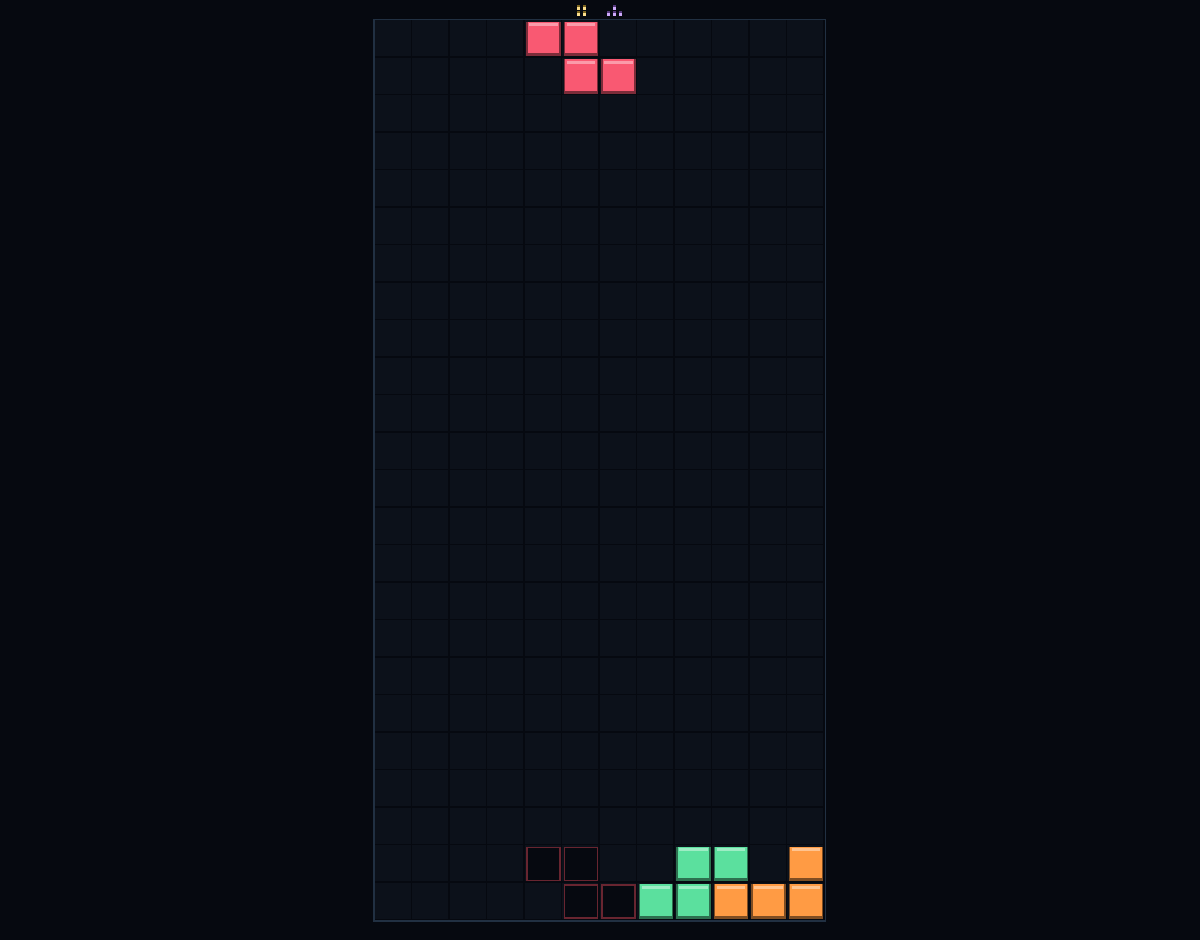
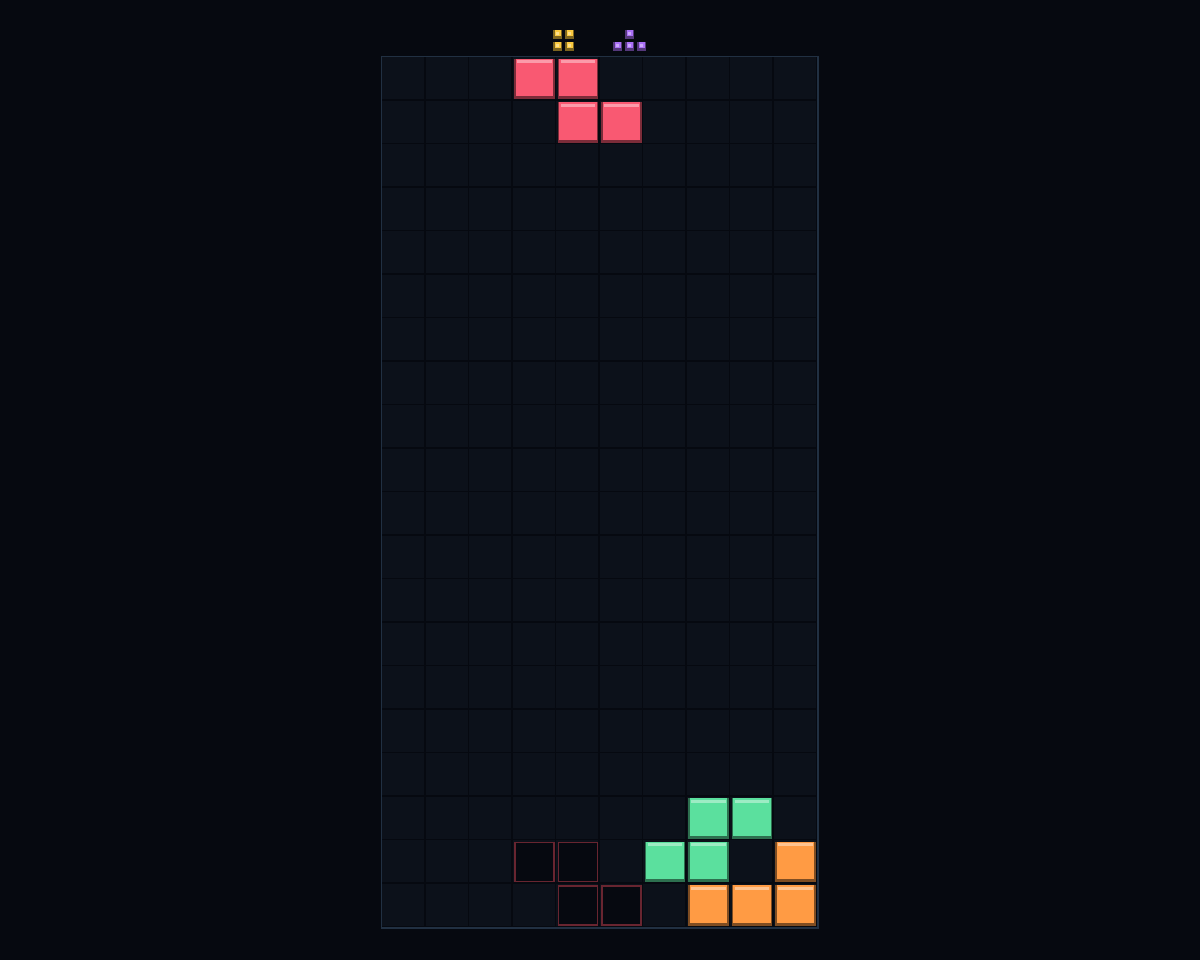
Restore classic Tetris grid and enlarge next-piece previews

Changed region(s): [[0.3083, 0.833, 0.7092, 0.9872], [0.4008, 0.0, 0.555, 0.1543]]

diff --git a/games/tetris/src/presentation.rs b/games/tetris/src/presentation.rs
@@ -116,12 +116,12 @@ impl draw::Game for Tetris {
             ),
             BG,
         );
-        let cell = (((height - 28.) / HEIGHT as f32).min((width - 6.) / WIDTH as f32) / scale)
+        let cell = (((height - 66.) / HEIGHT as f32).min((width - 6.) / WIDTH as f32) / scale)
             .floor()
             .max(8.) as i32;
         let (left, top) = (
             (800 - cell * WIDTH as i32) / 2,
-            (450 - cell * HEIGHT as i32) / 2,
+            (450 - cell * HEIGHT as i32) / 2 + (12. / scale) as i32,
         );
         s.rect(
             0,
@@ -207,7 +207,7 @@ impl draw::Game for Tetris {
             }
         }
         // Just two unobtrusive piece previews above the board; no sidebars or boxes.
-        let mini = (cell / 7).max(4);
+        let mini = (cell / 4).max(8);
         for (n, &kind) in st.queue.iter().take(2).enumerate() {
             let x = 400 - 5 * mini + n as i32 * 6 * mini;
             for (cx, cy) in SHAPES[kind as usize] {

diff --git a/games/tetris/src/main.rs b/games/tetris/src/main.rs
@@ -7,7 +7,7 @@ fn config() -> macroquad::conf::Conf {
     if !std::env::args().any(|a| a == "--size") {
         config.miniquad_conf.fullscreen = std::env::args().any(|a| a == "--fullscreen");
         config.miniquad_conf.window_width = 460;
-        config.miniquad_conf.window_height = 940;
+        config.miniquad_conf.window_height = 960;
     }
     config.miniquad_conf.icon = Some(macroquad::miniquad::conf::Icon {
         small: *include_bytes!("../assets/icon_16.rgba"),

diff --git a/games/tetris/src/lib.rs b/games/tetris/src/lib.rs
@@ -5,8 +5,8 @@ use vesper3d::runtime::snapshot;
 use vesper3d::two_d::*;
 
 // I, O, T, S, Z, J, L. SRS spawn matrices and rotation centres.
-pub const WIDTH: usize = 12;
-pub const HEIGHT: usize = 24;
+pub const WIDTH: usize = 10;
+pub const HEIGHT: usize = 20;
 pub const ROWS: usize = HEIGHT + 2;
 pub mod controls;
 const SHAPES: [[(i32, i32); 4]; 7] = [

diff --git a/games/tetris/README.md b/games/tetris/README.md
@@ -1,10 +1,10 @@
 # Tetris
 
-A native BlueEngine falling-block game with a roomier 12x24 centered board and no side panels. Only two small upcoming pieces appear above it; score and statistics live in the pause/results panel. Marathon is endless; Sprint finishes at 40 lines; Ultra gives you two minutes to score. A blocked spawn or locked blocks in the hidden rows ends the run.
+A native BlueEngine falling-block game with a classic 10x20 centered board and no side panels. Only two small upcoming pieces appear above it; score and statistics live in the pause/results panel. Marathon is endless; Sprint finishes at 40 lines; Ultra gives you two minutes to score. A blocked spawn or locked blocks in the hidden rows ends the run.
 
 Arrow keys move, Down soft-drops, Up or X rotates clockwise, Z/Q reverses, C/Shift holds, Space hard-drops. 1/2/3 start a fresh Marathon/Sprint/Ultra run. Esc pauses, R retries the current mode, K saves, L loads, M toggles sound, N toggles music and F toggles fullscreen. Controllers: D-pad/left stick move; D-pad down soft-drops; D-pad up or Y/Triangle hard-drops; A/Cross rotates clockwise; B/Circle reverses; X/Square or either bumper holds; Start/Options pauses; Back/Select retries; right-stick click cycles modes.
 
-SRS wall/floor kicks, seven-piece bags, 500 ms lock delay with at most 15 movement resets, two small next-piece previews, ghost landing and once-per-piece hold. Clears score 100/300/500/800 times level, T-spins 400/800/1200/1600, back-to-back difficult clears multiply by 1.5 and combos add 50 per step. Perfect clears add 3500 times level. Soft/hard drops score 1/2 per row. Level rises every ten lines.
+SRS wall/floor kicks, seven-piece bags, 500 ms lock delay with at most 15 movement resets, two clear next-piece previews, ghost landing and once-per-piece hold. Clears score 100/300/500/800 times level, T-spins 400/800/1200/1600, back-to-back difficult clears multiply by 1.5 and combos add 50 per step. Perfect clears add 3500 times level. Soft/hard drops score 1/2 per row. Level rises every ten lines.
 
 Built with the latest BlueEngine main at project creation (b2d559b). Simulation is fixed-step and rendering-free; snapshots retain the bag, generator, inputs, timers and pending line clears.
 

diff --git a/games/tetris/STATUS.md b/games/tetris/STATUS.md
@@ -1,3 +1,3 @@
-Implemented: roomier 12x24 deterministic seven-bag Tetris, SRS kicks, hold, ghost, two small next-piece previews and a centered minimal playfield, scoring, T-spins, combos, back-to-back bonuses, Marathon/Sprint/Ultra, native drawing and original two-layer music. D-pad and positional controller buttons cover every gameplay action, pause/retry and mode selection. Native launches default to a tightly fitted portrait window. Engine owns saves, audio settings, focus, pause, fullscreen and the centered text-only studio card.
+Implemented: classic 10x20 deterministic seven-bag Tetris, SRS kicks, hold, ghost, two clear next-piece previews and a centered minimal playfield, scoring, T-spins, combos, back-to-back bonuses, Marathon/Sprint/Ultra, native drawing and original two-layer music. D-pad and positional controller buttons cover every gameplay action, pause/retry and mode selection. Native launches default to a tightly fitted portrait window. Engine owns saves, audio settings, focus, pause, fullscreen and the centered text-only studio card.
 
 Rule tests, Clippy, native captures and audio measurements are automated evidence. Physical controllers, hardware audio and handheld devices remain unverified. Shipping uses the exact-source community release journal and Windows installer CI.

diff --git a/docs/feedback/2026-10-21-tetris.md b/docs/feedback/2026-10-21-tetris.md
@@ -35,5 +35,5 @@ compatibility still depends on mapped native drivers and has not been attested.
 
 Added `Game::default_fullscreen()` (default true) so Tetris can launch in a tight
 portrait window without overriding explicit flags or saved preferences. The
-requested final playfield is 12x24; only two tiny upcoming pieces remain visible.
+final playfield returns to the classic 10x20 grid, with two readable next-piece previews after visual review.
 Responsive logical dimensions remain a future improvement.
